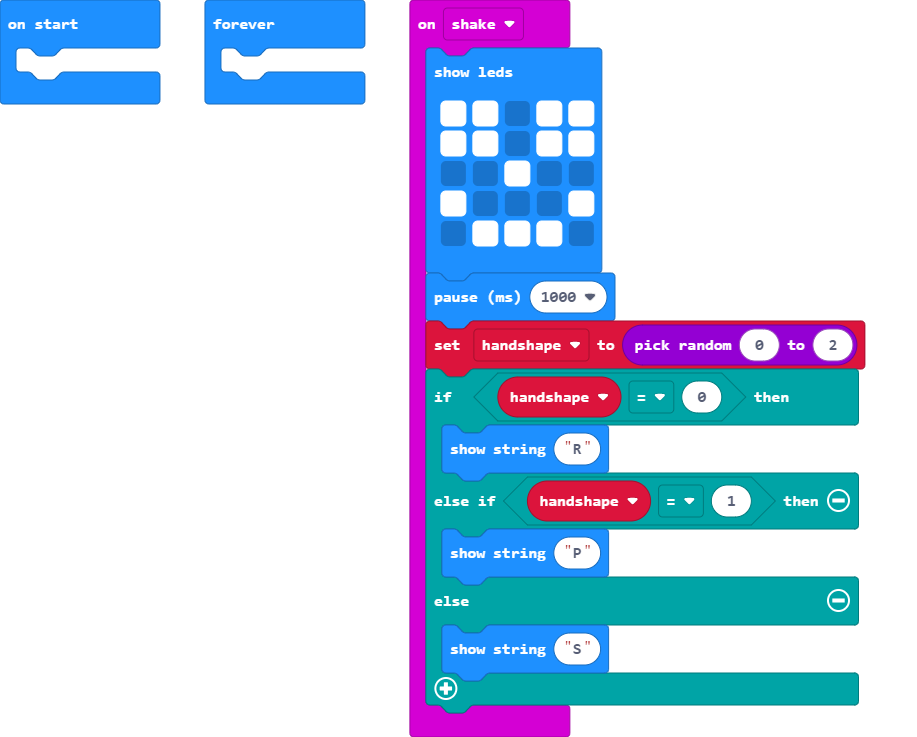
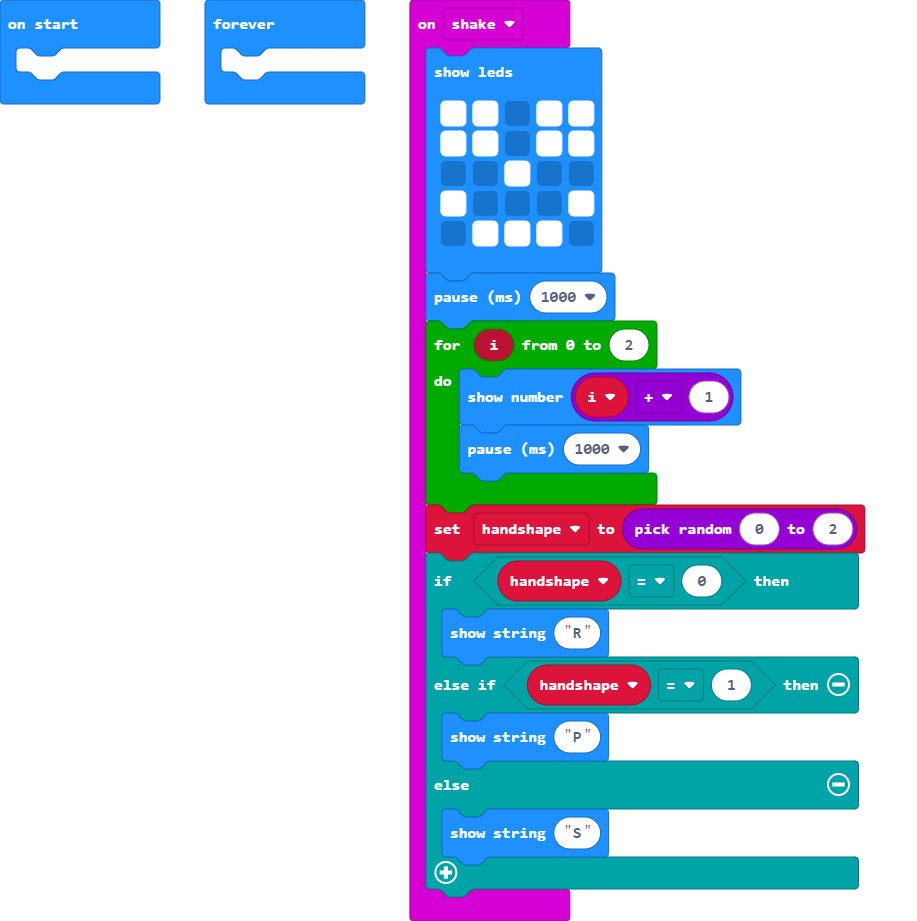
Update main.blocks, main.ts

Changed region(s): [[0.458, 0.0, 0.9466, 0.9986], [0.0, 0.0, 0.1832, 0.156], [0.2137, 0.0, 0.3969, 0.156]]

diff --git a/main.ts b/main.ts
@@ -8,6 +8,10 @@ input.onGesture(Gesture.Shake, function () {
         . # # # .
         `)
     basic.pause(1000)
+    for (let i = 0; i <= 2; i++) {
+        basic.showNumber(i + 1)
+        basic.pause(1000)
+    }
     handshape = randint(0, 2)
     if (handshape == 0) {
         basic.showString("R")
